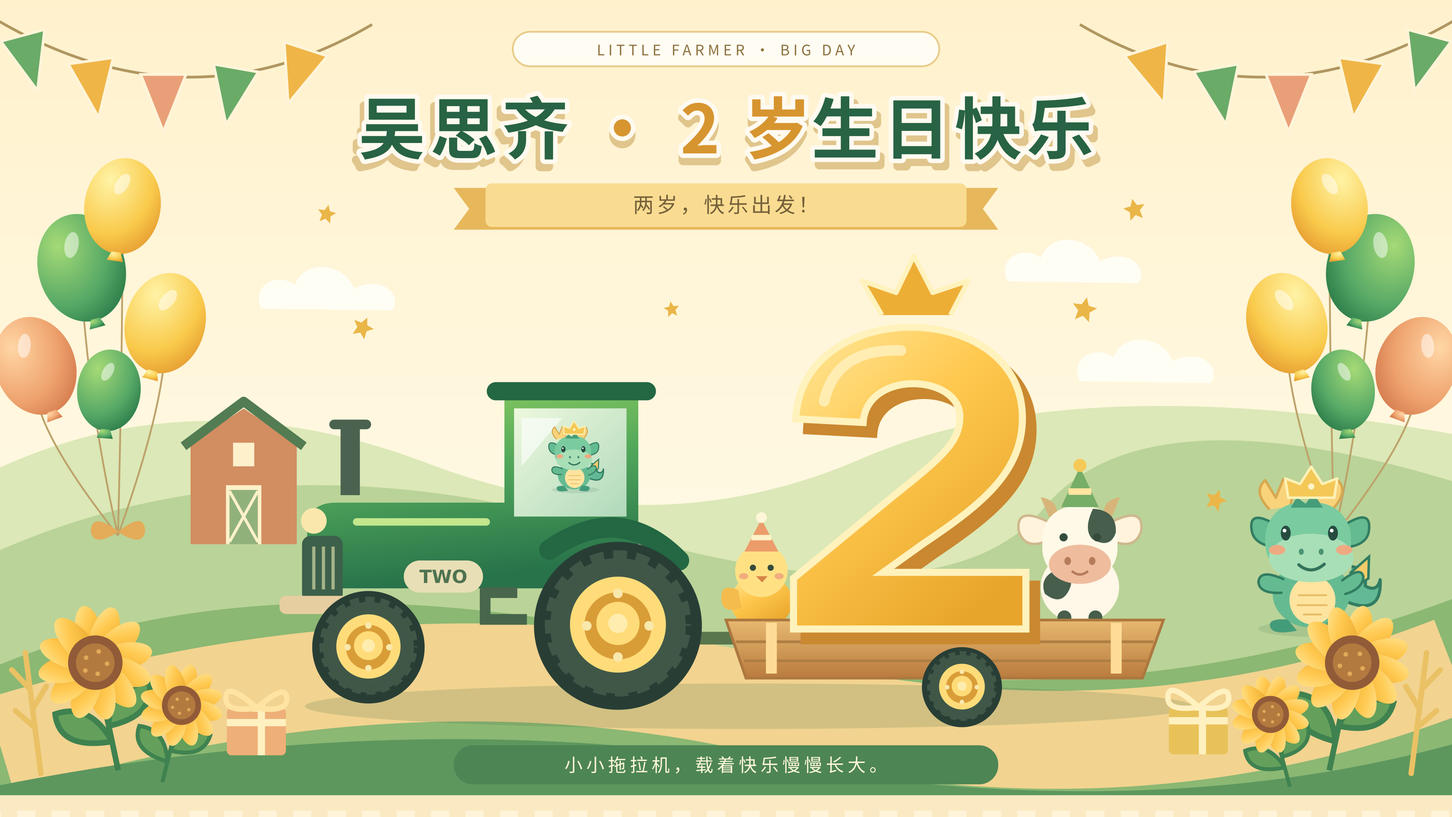
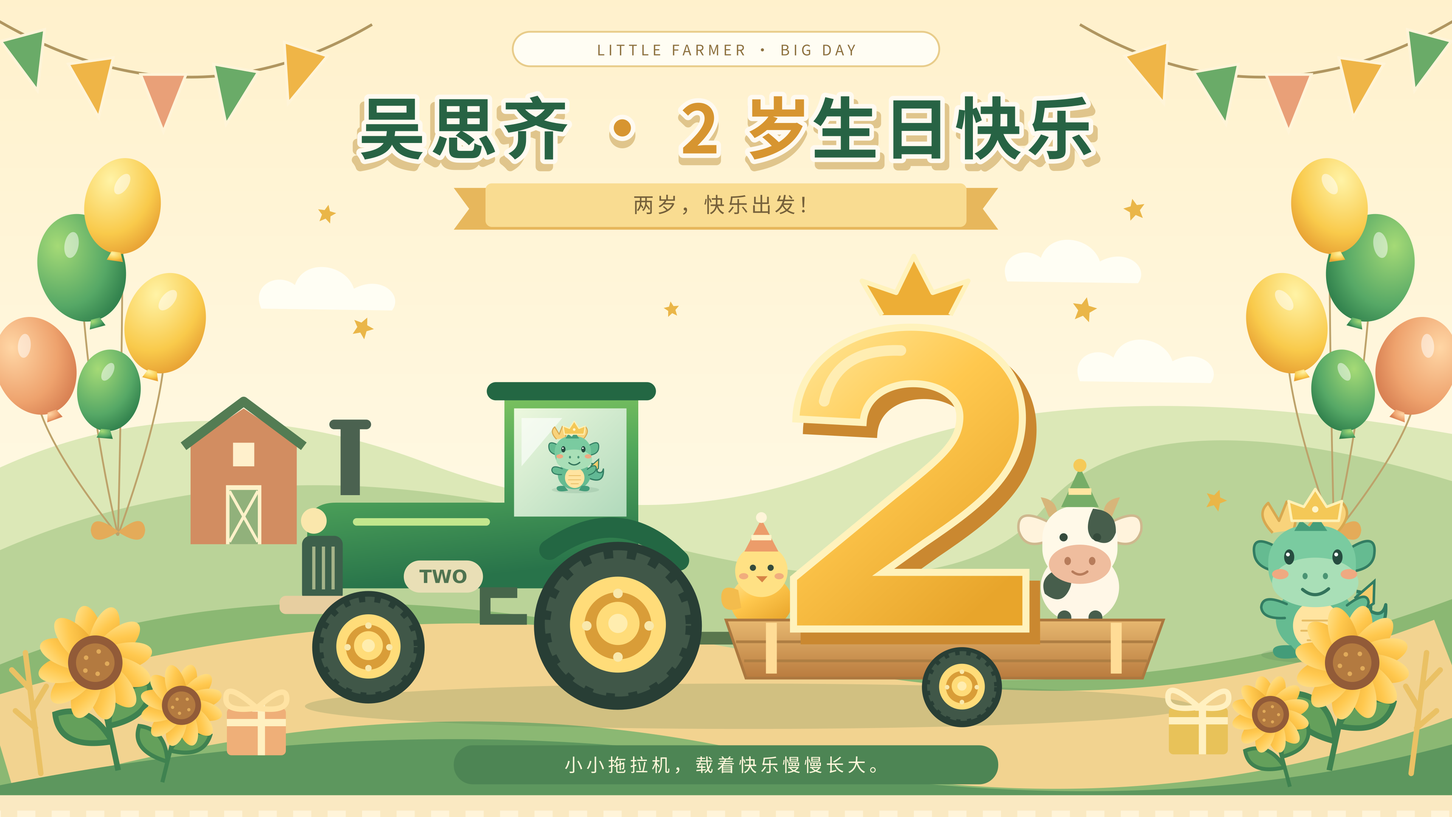
feat: 完成生日网站一期功能迭代与文档完善
1. 新增音频测试脚本check_audio.cjs并加入GitHub Pages CI检查流程
2. 优化play/audio.js音频逻辑：添加songId防止歌曲竞态，修复页面隐藏/后台时自动静音，修复未启用音频时的返回值问题
3. 修复play/play.js中的sing函数，处理audio.song()返回null的异常情况
4. 新增小龙、4K预览图等视觉素材，调整背景SVG的小龙摆放位置，为游乐园页面添加4K图下载按钮
5. 优化离线打包脚本，修改离线包内的页面提示文字
6. 清理play-preview.svg中多余的动画代码
7. 大幅更新README.md，完善项目使用与操作说明

Changed region(s): [[0.8438, 0.5583, 0.9688, 0.8065]]

diff --git a/party/index.html b/party/index.html
@@ -122,28 +122,8 @@ summary { cursor:pointer; text-align:center; padding:10px; border-radius:12px; f
 <path d="M914 450q10-45 65-43" fill="none" stroke="#fff5cb" stroke-width="9" stroke-linecap="round" opacity=".7"/></g>
 <g transform="translate(-79 -113) scale(1.18)"><g><path d="M354 590q0-25 27-25h157v-98h125v178H352Z" fill="url(#farm-green)"/><path d="M547 477h105v101H547Z" fill="url(#farm-glass)"/><path d="M554 486l38 0-38 45Z" fill="#fff" opacity=".6"/><path d="M598 478v100" stroke="url(#farm-green)" stroke-width="10"/><path d="M530 461h141" stroke="#236743" stroke-width="17" stroke-linecap="round"/><path d="M385 558v-63h18v63" fill="#4b6250"/><path d="M379 492h30" stroke="#4b6250" stroke-width="9" stroke-linecap="round"/><rect x="349" y="596" width="38" height="62" rx="8" fill="#3d604b"/><path d="M360 606v40m9-40v40m9-40v40" stroke="#a5b489" stroke-width="3"/><path d="M400 583h121" stroke="#c2e78d" stroke-width="7" stroke-linecap="round"/><rect x="328" y="652" width="65" height="17" rx="6" fill="#e7cea0"/><circle cx="360" cy="582" r="12" fill="#fae7ac"/><path d="M580 609q66-46 121 10" fill="none" stroke="#236743" stroke-width="19" stroke-linecap="round"/><rect x="444" y="619" width="74" height="30" rx="15" fill="#e9dfb6"/><text x="481" y="640" text-anchor="middle" fill="#4f7350" font-size="17" font-family="sans-serif" font-weight="700">TWO</text><path d="M550 649h-30v25h39" fill="none" stroke="#47664b" stroke-width="10"/>
 <g class="wheel rear"><use href="#farm-tire" transform="translate(644 680) scale(1.12)"/></g><g class="wheel front"><use href="#farm-tire" transform="translate(411 700) scale(.75)"/></g></g>
-<g transform="translate(1205 525) scale(.58)"><ellipse cx="154" cy="272" rx="90" ry="13" fill="#285c48" opacity=".12"/>
-<path d="M205 228q58 24 55-35-5 21-24 10 3-28-22-31" fill="#62b995" stroke="#327d62" stroke-width="5" stroke-linejoin="round"/>
-<path d="M211 183l31-27-1 35-20 13" fill="#f4cc6b" stroke="#327d62" stroke-width="4"/>
-<ellipse cx="149" cy="216" rx="62" ry="54" fill="#65bb91"/>
-<ellipse cx="151" cy="226" rx="37" ry="39" fill="#ffe4a0"/>
-<path d="M129 218h44m-46 16h47m-37 15h28" stroke="#e7bd65" stroke-width="3" stroke-linecap="round"/>
-<path d="M111 257q-33-2-28 12 4 14 43 6m51-18q35-3 30 13-4 13-40 4" fill="#439c79"/>
-<path d="M104 192q-38-17-40 5 2 19 37 17m98-20q31-24 34-5-2 19-29 27" fill="#65bb91" stroke="#327d62" stroke-width="4" stroke-linecap="round"/>
-<path d="M91 104q-43-25-38 9 3 23 38 28m113-37q42-26 38 9-2 24-37 28" fill="#65bb91" stroke="#327d62" stroke-width="4"/>
-<path d="M82 80Q54 51 75 33l17 28 12-30q21 11 11 44m69 4q26-29 7-47l-16 29-13-28q-20 10-10 43" fill="#f8d37b" stroke="#d7a850" stroke-width="4" stroke-linejoin="round"/>
-<rect x="75" y="69" width="138" height="122" rx="57" fill="#7acba0"/>
-<path d="M116 77l10-17 14 11 12-18 16 24" fill="#459d79"/>
-<ellipse cx="149" cy="158" rx="68" ry="39" fill="#a9dfb7"/>
-<ellipse cx="108" cy="118" rx="8" ry="12" fill="#264c40"/><ellipse cx="184" cy="118" rx="8" ry="12" fill="#264c40"/>
-<circle cx="106" cy="114" r="3" fill="#fff"/><circle cx="182" cy="114" r="3" fill="#fff"/>
-<ellipse cx="94" cy="145" rx="13" ry="8" fill="#efa981"/><ellipse cx="202" cy="145" rx="13" ry="8" fill="#efa981"/>
-<ellipse cx="133" cy="148" rx="4" ry="5" fill="#4b9474"/><ellipse cx="165" cy="148" rx="4" ry="5" fill="#4b9474"/>
-<path d="M129 169q20 17 41-1" fill="none" stroke="#33735b" stroke-width="5" stroke-linecap="round"/>
-<path d="M112 61l-5-31 24 9 18-28 18 28 24-9-5 31Z" fill="#f4c857" stroke="#fff1b6" stroke-width="4" stroke-linejoin="round"/>
-<circle cx="149" cy="43" r="5" fill="#fff5c9"/></g>
 </g>
-<g transform="translate(633 510) scale(.29)"><use href="#farm-dragon"/></g></g><g transform="translate(105 730) rotate(-12) scale(1.25)"><use href="#farm-sunflower"/></g><g transform="translate(200 777) rotate(14) scale(0.9)"><use href="#farm-sunflower"/></g><g transform="translate(1490 730) rotate(12) scale(1.25)"><use href="#farm-sunflower"/></g><g transform="translate(1400 787) rotate(-15) scale(0.85)"><use href="#farm-sunflower"/></g><g stroke="#eac164" stroke-width="6" fill="none" stroke-linecap="round"><path d="M45 852l-17-133m11 83-22-19m19-2 15-25m-19 2-19-20M1555 852l17-133m-11 83 22-19m-19-2-15-25m19 2 19-20"/></g><g transform="translate(250 780)"><rect width="65" height="52" rx="5" fill="#efaf78"/><path d="M28 0h10v52M0 16h65" fill="none" stroke="#fff0c0" stroke-width="8"/><path d="M33 0q-35-31-34-10 0 15 34 10 33-29 33-10 0 15-33 10" fill="none" stroke="#ffe3a3" stroke-width="6"/></g><g transform="translate(1288 779)"><rect width="65" height="52" rx="5" fill="#e8c259"/><path d="M29 0h8v52M0 15h65" fill="none" stroke="#fff0c0" stroke-width="8"/><path d="M33 0q-35-31-34-10 0 15 34 10 33-29 33-10 0 15-33 10" fill="none" stroke="#fff0c0" stroke-width="6"/></g><rect x="500" y="821" width="600" height="43" rx="21" fill="#4d8554"/><text x="800" y="850" text-anchor="middle" font-size="20" letter-spacing="4" fill="#fff7db" font-family="PingFang SC, Microsoft YaHei, Noto Sans CJK SC, sans-serif">小小拖拉机，载着快乐慢慢长大。</text><g font-family="PingFang SC, Microsoft YaHei, Noto Sans CJK SC, sans-serif" text-anchor="middle">
+<g transform="translate(633 510) scale(.29)"><use href="#farm-dragon"/></g></g><g transform="translate(1450 650) scale(.7)"><use href="#farm-dragon"/></g><g transform="translate(105 730) rotate(-12) scale(1.25)"><use href="#farm-sunflower"/></g><g transform="translate(200 777) rotate(14) scale(0.9)"><use href="#farm-sunflower"/></g><g transform="translate(1490 730) rotate(12) scale(1.25)"><use href="#farm-sunflower"/></g><g transform="translate(1400 787) rotate(-15) scale(0.85)"><use href="#farm-sunflower"/></g><g stroke="#eac164" stroke-width="6" fill="none" stroke-linecap="round"><path d="M45 852l-17-133m11 83-22-19m19-2 15-25m-19 2-19-20M1555 852l17-133m-11 83 22-19m-19-2-15-25m19 2 19-20"/></g><g transform="translate(250 780)"><rect width="65" height="52" rx="5" fill="#efaf78"/><path d="M28 0h10v52M0 16h65" fill="none" stroke="#fff0c0" stroke-width="8"/><path d="M33 0q-35-31-34-10 0 15 34 10 33-29 33-10 0 15-33 10" fill="none" stroke="#ffe3a3" stroke-width="6"/></g><g transform="translate(1288 779)"><rect width="65" height="52" rx="5" fill="#e8c259"/><path d="M29 0h8v52M0 15h65" fill="none" stroke="#fff0c0" stroke-width="8"/><path d="M33 0q-35-31-34-10 0 15 34 10 33-29 33-10 0 15-33 10" fill="none" stroke="#fff0c0" stroke-width="6"/></g><rect x="500" y="821" width="600" height="43" rx="21" fill="#4d8554"/><text x="800" y="850" text-anchor="middle" font-size="20" letter-spacing="4" fill="#fff7db" font-family="PingFang SC, Microsoft YaHei, Noto Sans CJK SC, sans-serif">小小拖拉机，载着快乐慢慢长大。</text><g font-family="PingFang SC, Microsoft YaHei, Noto Sans CJK SC, sans-serif" text-anchor="middle">
 <rect x="565" y="35" width="470" height="38" rx="19" fill="#fffdf3" stroke="#e8cc8a" stroke-width="2"/>
 <text x="800" y="61" font-size="16" letter-spacing="4" fill="#8d713f">LITTLE FARMER · BIG DAY</text>
 <text x="800" y="177" font-size="74" font-weight="bold" letter-spacing="5" stroke="#e0c58c" stroke-width="10" stroke-linejoin="round" paint-order="stroke" fill="#e0c58c">吴思齐 · 2 岁生日快乐</text>

diff --git a/play/play.js b/play/play.js
@@ -61,7 +61,7 @@ $('music-toggle').onclick=async()=>{if(!musicURL)return;if(wantsMusic){wantsMusi
 window.addEventListener('dragover',e=>e.preventDefault());window.addEventListener('drop',e=>{e.preventDefault();if(e.dataTransfer?.files.length)importPhotos(e.dataTransfer.files);});
 // 蛋糕由大人控制；唱歌可停止，随时可吹灭，不强制等待。
 function updateCake(){ $('birthday-cake').classList.toggle('out',blown);$('cake-title').textContent=blown?'耶！思齐两岁啦！':'思齐，生日快乐！';$('lyric').textContent=blown?'愿所有美好，陪你慢慢长大':'许一个小小的愿望吧';$('blow').hidden=blown;$('relight').hidden=!blown;}
-async function sing(){if(singing){stopSong();return;}if(frozen()){tell('先退出合影或继续动画，再一起唱歌吧。');return;}stopMic();const run=++songRun;singing=true;$('sing').textContent='停止生日歌';if(!await enableSound(true)||run!==songRun||mode!=='cake'||frozen())return;try{const song=await audio.song();if(run!==songRun||mode!=='cake')return;const lines=['祝你生日快乐','祝你生日快乐','祝思齐生日快乐','祝你生日快乐'];song.lines.forEach((t,i)=>songTimers.push(setTimeout(()=>{if(run===songRun)$('lyric').textContent=lines[i];},t*1000)));songTimers.push(setTimeout(()=>{if(run===songRun){stopSong();$('lyric').textContent=blown?'思齐，生日快乐！':'许个愿，吹蜡烛吧！';}},song.total*1000));}catch{stopSong();tell('暂时无法播放生日歌，可以大家一起唱。');}}
+async function sing(){if(singing){stopSong();return;}if(frozen()){tell('先退出合影或继续动画，再一起唱歌吧。');return;}stopMic();const run=++songRun;singing=true;$('sing').textContent='停止生日歌';if(!await enableSound(true)||run!==songRun||mode!=='cake'||frozen())return;try{const song=await audio.song();if(run!==songRun||mode!=='cake')return;if(!song){stopSong();return;}const lines=['祝你生日快乐','祝你生日快乐','祝思齐生日快乐','祝你生日快乐'];song.lines.forEach((t,i)=>songTimers.push(setTimeout(()=>{if(run===songRun)$('lyric').textContent=lines[i];},t*1000)));songTimers.push(setTimeout(()=>{if(run===songRun){stopSong();$('lyric').textContent=blown?'思齐，生日快乐！':'许个愿，吹蜡烛吧！';}},song.total*1000));}catch{stopSong();tell('暂时无法播放生日歌，可以大家一起唱。');}}
 function blow(){if(mode!=='cake'||blown)return;stopSong();stopMic();blown=true;updateCake();celebrate();audio.effect('dragon').catch(()=>{});showControls(false);}
 $('sing').onclick=sing;$('blow').onclick=blow;$('relight').onclick=()=>{stopSong();stopMic();blown=false;clearEffects();updateCake();};
 // 麦克风仅通过明确按钮启用；校准环境音，连续响度超阈值触发，键盘/按钮始终可用。

diff --git a/play/index.html b/play/index.html
@@ -37,7 +37,7 @@
 <circle cx="149" cy="43" r="5" fill="#fff5c9"/></svg>
 <text x="351" y="679" font-family="sans-serif" font-size="190" font-weight="900" fill="#ffd668" stroke="#fff3c3" stroke-width="8" paint-order="stroke">2</text>
 <svg x="775" y="424" width="535" height="389" viewBox="0 0 220 160">
-  <circle class="puff" cx="124" cy="12" r="8"/><circle class="puff p2" cx="124" cy="12" r="8"/><circle class="puff p3" cx="124" cy="12" r="8"/>
+  
   <rect x="120" y="16" width="9" height="46" rx="3" fill="#555"/>
   <rect x="95" y="58" width="112" height="48" rx="12" fill="#e63b2e"/>
   <rect x="104" y="64" width="78" height="7" rx="3.5" fill="#ff8a80" opacity=".8"/>
@@ -107,7 +107,7 @@
 <div class="row" id="cake-tools" hidden><button id="sing">♫ 一起唱生日歌</button><button id="blow">吹灭蜡烛</button><button id="relight" hidden>重新点亮</button></div>
 <div class="row"><button id="sound" aria-pressed="false">声音：关</button><button id="photo" aria-pressed="false">合影模式</button><button id="hide">隐藏按钮</button></div>
 <details id="settings"><summary>更多设置与版本</summary>
-<div class="row"><button id="pause" aria-pressed="false">暂停动画</button><button id="fullscreen">全屏展示</button><button id="awake" aria-pressed="false">保持屏幕常亮</button><button id="choose-version">选择其他版本</button></div>
+<div class="row"><button id="pause" aria-pressed="false">暂停动画</button><button id="fullscreen">全屏展示</button><button id="awake" aria-pressed="false">保持屏幕常亮</button><a href="../assets/play-preview-4k.png" download="思齐小龙游乐园-4K.png">农场备用图</a><button id="choose-version">选择其他版本</button></div>
 <div class="row album-settings" id="album-settings" hidden><label>每张停留 <select id="duration"><option value="5">5 秒</option><option value="8" selected>8 秒</option><option value="12">12 秒</option></select></label><button id="pick-music">选择背景音乐</button><button id="music-toggle" disabled>播放音乐</button><button id="clear-photos" disabled>清空照片</button><button id="pick-folder">选择文件夹</button><label><input id="captions" type="checkbox" checked>显示文件名字幕</label></div>
 <div class="row" id="mic-tools" hidden><button id="mic-toggle" aria-pressed="false">开启吹气感应</button><span id="mic-status" role="status"></span></div>
 <p class="help">隐藏后轻点空白处恢复操作；Esc 恢复，1–4 切换场景。<br>照片只在本机展示，刷新或切换版本后需重选。声音默认关闭。</p>

diff --git a/play/audio.js b/play/audio.js
@@ -1,7 +1,7 @@
 /* 原生合成音：不加载网络音频。所有声音都从用户操作开始。 */
 'use strict';
 window.PartyAudio = (() => {
- let context, bus, songBus, enabled=false;
+ let context, bus, songBus, enabled=false, songId=0;
  const notes={C4:261.63,G4:392,A4:440,B4:493.88,C5:523.25,D5:587.33,E5:659.25,F5:698.46,G5:783.99,A5:880,C6:1046.5};
  const melody=[['G4',.75],['G4',.25],['A4',1],['G4',1],['C5',1],['B4',2],['G4',.75],['G4',.25],['A4',1],['G4',1],['D5',1],['C5',2],['G4',.75],['G4',.25],['G5',1],['E5',1],['C5',1],['B4',1],['A4',2],['F5',.75],['F5',.25],['E5',1],['C5',1],['D5',1],['C5',3]];
  async function ready(){
@@ -17,9 +17,9 @@ window.PartyAudio = (() => {
   oscillator.onended=()=>{oscillator.disconnect();gain.disconnect();};
  }
  function bell(hz,t,d,v,target){tone(hz,t,d,v,'sine',target);tone(hz*2,t,d*.6,v*.18,'sine',target);}
- function stopSong(){if(songBus){songBus.gain.setValueAtTime(0,context.currentTime);songBus.disconnect();songBus=null;}}
+ function stopSong(){songId++;if(songBus){songBus.gain.setValueAtTime(0,context.currentTime);songBus.disconnect();songBus=null;}}
  async function setEnabled(value){enabled=value;if(value){await ready();if(enabled)bus.gain.setValueAtTime(.28,context.currentTime);}else{stopSong();if(bus)bus.gain.setValueAtTime(0,context.currentTime);}}
- async function song(){await ready();stopSong();songBus=context.createGain();songBus.connect(bus);const start=context.currentTime+.12;let time=start;const lines=[];
+ async function song(){stopSong();const run=songId;await ready();if(run!==songId||!enabled||document.hidden)return null;songBus=context.createGain();songBus.connect(bus);const start=context.currentTime+.12;let time=start;const lines=[];
   melody.forEach(([name,duration],i)=>{if([0,6,12,19].includes(i))lines.push(time-start+.12);bell(notes[name],time,Math.max(.65,duration*.8),.27,songBus);time+=duration*.58;});return {lines,total:time-start+.8};
  }
  async function effect(kind){if(!enabled)return;await ready();if(!enabled||document.hidden)return;const t=context.currentTime+.02;

diff --git a/scripts/package_site.py b/scripts/package_site.py
@@ -19,6 +19,9 @@ if __name__=='__main__':
     archive=ROOT/'little-tractor-party-offline.zip'
     with ZipFile(archive,'w',ZIP_DEFLATED) as out:
         for name in FILES+['README.md']:
-            out.write(ROOT/name,name)
+            if name=='index.html':
+                offline=(ROOT/name).read_text().replace('<a href="little-tractor-party-offline.zip" download>↓ 完整离线包</a>', '<span class="note">当前为完整离线副本</span>')
+                out.writestr(name,offline)
+            else:out.write(ROOT/name,name)
     shutil.copy2(archive,dist/archive.name)
     print(f'已生成 dist/（{len(FILES)} 个站点文件）与 {archive.name}（{archive.stat().st_size/1024/1024:.1f} MB）')

diff --git a/README.md b/README.md
@@ -1,155 +1,197 @@
-# Little Tractor Party 🚜
+# 思齐的两岁快乐农场 🚜🐲
 
-吴思齐两周岁生日的拖拉机主题大屏网页。
+给 **吴思齐** 的两周岁生日网站。思齐生肖属龙，因此用一只戴金色小皇冠、笑眯眯的小龙作为三个版本共同的伙伴，陪他坐拖拉机、认识农场动物、看成长照片和庆祝生日。
 
-## 项目背景
+主要用途：**手机打开网站 → 选择喜欢的版本 → 横屏 → 用系统屏幕镜像投到大厅电视**，作为迎宾、生日仪式、互动和合影背景。
 
-生日当天将在大厅布置拖拉机主题场景，希望制作一个 HTML 网页，通过手机打开并使用屏幕镜像投到电视上，作为现场动态背景、生日仪式和合影背景。
+网站采用原生 HTML、CSS、JavaScript 和 SVG；无需安装前端依赖，没有后端、广告、统计脚本或网络字体。已托管于 **GitHub Pages**。
 
-本文件用于新对话接续需求。已实现不含私人照片的本地生日大屏 `index.html`，包含农场、蛋糕仪式、合影模式及两张 4K 备用图。尚未创建远程仓库或部署。
+**在线入口：[思齐的两岁快乐农场](https://zemu2718.github.io/little-tractor-party/)**
 
-## 已确认的需求
+## 当前交付状态
 
-- 宝宝姓名：吴思齐。
-- 年龄：两周岁。
-- 使用地点：布置生日场景的大厅。
-- 主题：拖拉机。
-- 成品形式：HTML 网页，而非只做视频或 PPT。
-- 主要使用方式：手机浏览器打开网页，再通过手机的屏幕镜像功能显示到电视。
-- 用户同意先做不含私人照片的主题网页，测试投屏效果，再考虑增加照片等功能。
-- 项目名称：`little-tractor-party`。
-- 本地路径：`/Volumes/wwx/dev/WebProjects/little-tractor-party`。
+- 已建立版本选择首页，提供实际画面预览和三个独立入口。
+- 三个版本都已加入小龙，并提供手机按钮、全屏、常亮、动画暂停、合影和返回版本首页。
+- 派对版和简洁版提供农场、蛋糕及 4K 静态备用图。
+- 互动版提供农场、成长相册、生日歌、吹蜡烛及动物互动。
+- 已添加 GitHub Pages 工作流、发布文件检查、交互回归和离线打包脚本。
+- 已通过两版大屏交互回归、游乐园状态回归、音频生命周期回归、发布资源与相对链接检查；已查看导出的静态画面。
+- **已上线（用户确认）**：[https://zemu2718.github.io/little-tractor-party/](https://zemu2718.github.io/little-tractor-party/)。本次网络读取工具未能访问该站点，线上资源及交互尚未独立验证；工具访问失败不代表网站故障。
+- **尚未完成真实手机、浏览器和电视投屏验证**：当前环境的 Firefox 启动失败，且不允许启动本地 HTTP 服务器；源码检查、模拟 DOM 回归和静态图检查不等同于现场测试。
 
-## 主画面范围（已实现初稿）
+## 选择哪个版本
 
-优先把一个漂亮、稳定的拖拉机生日主画面做好，不急于实现复杂功能。
+从 [版本选择首页](index.html) 进入。首页会在浏览器允许本地存储时标记上次选择，但不会自动跳转。
 
-- 面向电视的 16:9 横屏构图，同时适配手机横屏访问。
-- 明确显示「吴思齐 · 2 岁生日快乐」。
-- 绘本风农场：拖拉机、田野、谷仓、风车、气球等。
-- 核心创意：拖拉机拖着一个大大的数字「2」。
-- 柔和循环动画，例如车轮转动、云朵飘动、风车旋转。
-- 姓名和祝福保持清晰稳定，适合大厅远距离观看与现场拍照。
-- 默认静音，避免持续发动机声或自动音乐影响现场聊天。
-- 操作按钮可隐藏，展示时保持画面干净。
-- 避免频繁闪烁和过快切换。
+| 版本 | 入口 | 风格与内容 | 适合何时使用 |
+| --- | --- | --- | --- |
+| **欢乐派对** | [party/index.html](party/index.html) | 绿色拖拉机、立体金色「2」、气球、小龙和农场伙伴；手动蛋糕仪式 | 推荐用于迎宾、切蛋糕和热闹合影 |
+| **清新简洁** | [classic/index.html](classic/index.html) | 奶油色、柔和田野、风车、小龙点缀；轻柔循环动画 | 安静背景、温馨全家福 |
+| **小龙游乐园** | [play/index.html](play/index.html) | 蓝天、红色拖拉机、小龙；成长相册、生日歌、点点玩 | 成长回顾、亲子互动和唱歌仪式 |
 
-### 尚未确认的视觉建议
+三个版本均保持 **16:9 完整构图**。不同屏幕比例可能留边，不会为了铺满而裁掉标题或拉伸插画。标题和主体保持清晰；运动缓慢，不使用强制倒计时、输赢机制或持续闪烁。
 
-- 主题标题：「思齐的快乐农场」。
-- 配色：绿色拖拉机、奶油色背景、麦穗黄点缀。
-- 辅助文案：「小小拖拉机，载着快乐慢慢长大。」或「两岁，快乐出发！」。
-- 最终风格应尽量匹配大厅实物布置；用户尚未提供布置参考图。
+大屏页面的「更多设置」提供版本选择入口。切换版本会打开另一个页面，**照片、音乐、蜡烛、全屏和常亮状态不跨版本继承**。游乐园载入了照片或音乐时，会先提示再返回首页。
 
-## 后续可选功能（不是第一版必做）
+## 生日当天怎么用
 
-1. 成长相册或 1～2 分钟成长回顾。
-2. 手动切换的切蛋糕场景，以及吹蜡烛后触发的彩纸动画（已实现）。
-3. 固定停留的合影背景（已实现）。
-4. 在手机上临时选择照片，仅在浏览器本机展示，不上传。
-5. 导出或另做循环视频，作为现场备用。
+### 活动开始前
 
-仪式场景应由大人手动控制，不使用强制倒计时或必须配合固定时间的自动流程。
+1. 打开首页，把「农场备用图」「蛋糕备用图」存到手机相册。
+2. 需要电脑离线运行时，下载完整离线包，**先解压，再打开其中的 `index.html`**。不要在压缩包预览器里运行页面。
+3. 手机连接现场网络，横屏打开选好的版本，再用系统屏幕镜像连接电视。
+4. 检查名字是否清楚、画面是否完整、浏览器工具栏是否遮挡，并试一次切换蛋糕和合影。
+5. 按需开启「保持屏幕常亮」「全屏展示」。不支持常亮时，在手机系统中暂时延长自动锁屏时间。
 
-## 部署与隐私
+### 迎宾 → 蛋糕 → 合影
 
-- 已讨论 GitHub Pages，作为候选静态托管方案，尚未实际部署。
-- 预计地址形式：`https://<GitHub 用户名>.github.io/little-tractor-party/`。
-- HTML 本身不会自动投屏；电视显示依赖手机与电视的屏幕镜像能力。
-- 普通 GitHub Pages 网站是公开访问的，不能把私有源码仓库等同于私有网站。
-- 不要未经确认上传宝宝照片、家庭视频等私人素材。
-- 页面拟显示宝宝姓名；公开发布前应确认用户接受公开展示姓名，或改用昵称。
-- 国内现场访问 GitHub Pages 的速度和可达性需实测，不保证网络稳定。
-- 项目站点部署应注意资源子路径，避免部署后图片、脚本或样式 404。
-- 远程仓库创建、代码推送和公开部署尚未执行，实际操作前确认目标账号、可见性及发布内容。
+| 环节 | 操作 |
+| --- | --- |
+| 迎宾 | 进入欢乐派对，点击「隐藏按钮」，让小龙和拖拉机陪大家等待 |
+| 切蛋糕 | 轻点空白处恢复按钮，选择「生日蛋糕」；唱歌与许愿由家人自行安排 |
+| 吹蜡烛 | 大人点击「吹灭蜡烛」；祝福改变、彩纸落下、操作栏隐藏 |
+| 重来一次 | 恢复操作栏，点击「重新点亮」 |
+| 全家合影 | 点击「合影模式」，动画暂停、彩纸清除、操作栏隐藏 |
+| 继续展示 | 轻点空白处恢复按钮，点击「退出合影」恢复进入前的动画状态 |
 
-## 待确认的信息
+派对版和简洁版默认无声音，也不会请求麦克风。两版另有「撒花庆祝」按钮，可以在农场场景手动庆祝。暂停、合影或系统开启“减少动态效果”时，不播放彩纸。
 
-- 手机是 iPhone 还是 Android。
-- 电视型号、支持的投屏方式，以及是否方便提前测试。
-- 大厅布置效果图、拖拉机颜色和整体配色。
-- 是否需要音乐。
-- GitHub 账号与最终托管方式。
+**找回按钮：**轻点画面空白处，或在电脑上按 `Esc`。按 `H` 可显示／隐藏操作栏。游乐园里的动物按钮会继续响应互动，恢复菜单时请点动物以外的空白区域。
 
-这些信息不必全部确认后才开始；可以先做不含照片的静态/动态主画面原型。
+## 小龙游乐园操作说明
 
-## 开发原则
+### 成长相册
 
-- 使用中文沟通，代码注释尽量中文。
-- 保持简单，静态 HTML/CSS/JavaScript 能满足时不引入后端或复杂框架。
-- 先做好视觉效果和现场稳定性，不扩展无关功能。
-- 手机浏览器的横屏、全屏和音频能力存在平台限制，应按实测结果处理，不承诺所有设备均无黑边或支持自动全屏。
-- 若调用 AI 生成插画，遵循用户全局 imagegen 配置；涉及费用或不明确的生成参数，先确认，不擅自提交付费任务。
+1. 进入「成长相册」，点击「选择照片」，可多选；电脑也可把照片拖入页面。
+2. 照片按文件名自然排序；需要明确顺序时，使用 `01-刚出生.jpg`、`02-第一次坐拖拉机.jpg` 等名称。
+3. 默认每张停留 **8 秒**，循环播放。可在设置中改为 5 或 12 秒。
+4. 「上一张」「下一张」「暂停相册」都有手机触控按钮。电脑也可用方向键翻页、空格播放／暂停。
+5. 字幕来自文件名，常见相机自动命名会隐藏；设置中也可关闭全部文件名字幕。
+6. 可选择本地背景音乐，再点「播放音乐」。音乐循环播放，只在相册场景播放；离开相册、进入合影或切后台时暂停。
 
-## 新对话接续提示
+照片和音乐通过浏览器本地文件地址使用，**不上传、不写入仓库，也不保存到服务器**。刷新、关闭页面或切换版本后，需要重新选择。重新选择照片会替换已有相册；「清空照片」释放当前照片资源。
 
-可以对新对话说：
+为控制手机内存，相册最多载入 **120 张**，每张不超过 **25 MB**，选入总量不超过 **250 MB**，单图不超过 **5000 万像素**。文件会逐张解码检查；不支持、损坏或超限的文件会跳过并提示。如果整批都失败，保留已有相册。
 
-> 请先阅读 README.md，这是吴思齐两周岁拖拉机主题生日大屏项目。先做不含私人照片的 HTML 主画面，主要通过手机打开并镜像投屏到电视。请根据已确认需求推进，未确认的建议不要当成既定要求。
+推荐提前准备 JPG 或 PNG。HEIC／HEIF 是否可显示取决于设备与浏览器，不能保证；无法显示时请转换为 JPG。文件夹选择也取决于浏览器支持，普通多选照片始终作为主要入口。
 
-## 本地主画面使用说明
+### 生日歌和蜡烛
 
-第一版入口是 `index.html`，使用原生 HTML/CSS/JavaScript 和内嵌 SVG 插画，无需安装依赖、构建或联网加载素材，不含照片、音乐、分析统计或上传功能。当前默认是更明亮的绿色、金黄与奶油色派对版；原有低饱和绘本风保留为简洁版。两者均尚未按大厅参考图校色。
+- 默认静音。「声音：开」启用互动音效；「一起唱生日歌」会主动开启声音并播放合成伴奏、同步显示歌词，家人可一起唱。
+- 可以停止歌曲，也可以随时点击「吹灭蜡烛」，不必等待歌曲结束。
+- 切场景、关闭声音、进入合影或切后台会停止生日歌；回来后需要重新开始唱。
+- 吹灭后可重新点亮；同一页面内切换场景保留蜡烛状态。
+- 「更多设置 → 开启吹气感应」才会请求麦克风。授权后先校准约 1.5 秒，再检测持续声音强度。
+- 感应检测的是响度，现场讲话、音乐或其他噪声也可能触发；**手动按钮是现场可靠的操作入口**。不支持或拒绝权限时，照样可以手动吹灭。
+- 离开蛋糕、吹灭蜡烛、进入合影或切后台，会关闭麦克风并释放资源，不自动重新申请。
 
-- 在电脑浏览器中打开 `index.html` 即可预览。
-- 如需手机访问，在本目录运行 `python3 -m http.server 8080 --bind 0.0.0.0`，手机连接同一局域网后，访问 `http://电脑的局域网IP:8080`。电脑防火墙需允许连接；此方式需电脑保持运行。结束后按 Ctrl+C 停止服务。
-- 手机横屏后，使用系统的屏幕镜像功能投到电视；网页本身不发起投屏。
-- 主画面保持 16:9 完整显示，其他屏幕比例会留边，不裁掉姓名或插画。
-- 「暂停动画」可用于合影；「隐藏按钮」会立即清理操作栏和提示，轻点任意画面恢复按钮。电脑也可按 H 显示或隐藏按钮，Esc 恢复按钮。
-- 「全屏展示」在支持 Fullscreen API 的浏览器中生效；不支持时会给出提示，请横屏并收起浏览器工具栏。
-- 尊重系统的“减少动态效果”设置；默认静音，没有自动音乐。
+### 点点玩
 
-页面可离线打开，但手机浏览器能否直接打开本地 HTML 文件取决于系统；首次手机测试建议使用局域网地址。现场仍需实测镜像清晰度、浏览器工具栏、电视边缘裁切及手机自动锁屏。尚未进行真实手机和电视测试。
+四个大角色按钮：**小龙、小牛、小鸡、拖拉机**。点一下会有招呼文字和轻轻跳动；开启声音后有对应短音效。小龙用柔和音符回应，小牛、小鸡和拖拉机使用合成音效。
 
-### 合影模式与静态备用图
+没有分数、限时、失败或连续奖励压力。大人可以陪孩子指认角色，按孩子自己的节奏玩。系统“减少动态效果”或合影状态下会减少／停止动态反馈。
 
-- 点击「合影模式」：暂停所有动画、立即隐藏按钮和提示，保留干净背景。
-- 轻点画面或按 Esc 恢复按钮，画面仍保持静止；点击「退出合影」恢复进入前的动画状态。点击「继续动画」则直接退出合影并播放动画。
-- 展开「更多设置与备用图」，点击「农场备用图」下载 `assets/birthday-background-4k.png`，尺寸为 **3840×2160（16:9）**。部分手机浏览器可能直接打开图片，可长按保存。建议活动前保存到手机相册，现场断网也可展示。
-- 备用图含姓名、祝福及完整插画，没有按钮。PNG 固定了字体显示；另附可缩放的 `assets/birthday-background.svg`。
-- 主画面文字与插画共用 SVG 坐标，横屏尺寸变化不会改变它们的相对位置。备用图使用动画初始姿态，并非当前暂停帧的截图。
-- 分享或拷贝完整网页时，请一起保留 `assets` 目录；单独拷贝 `index.html` 仍可显示主画面，但备用图下载需要该目录。
+## 全屏、常亮与投屏边界
 
-修改插画或文案后，可运行 `python3 scripts/export_background.py` 重新生成备用图。导出脚本需要系统提供 librsvg、Cairo 及中文字体；日常打开网页和使用现成备用图不需要这些开发工具。
+- 网页不直接连接电视；电视画面来自手机系统的屏幕镜像。
+- 全屏与常亮仅在主动点击后申请，失败时显示回退提示。
+- 常亮通常需要 HTTPS 等安全环境。GitHub Pages 提供 HTTPS；局域网 HTTP 预览不保证支持常亮或麦克风。
+- 切到其他应用时，浏览器可能释放常亮。回到页面后会尝试恢复先前开启的常亮，以按钮状态为准。
+- 部分手机浏览器不支持网页全屏，横屏并收起浏览器工具栏仍可展示。
+- 操作栏在窄屏换行，设置展开后可滚动；合影和隐藏按钮会清除常驻操作提示。
+- 现场网络、手机发热、系统锁屏、电视裁切与镜像清晰度需要用实际设备验证。
 
-## 生日当天的操作顺序
+## 本地预览
 
-1. 提前把两张 PNG 备用图保存到手机相册；也可使用 `little-tractor-party-offline.zip`，解压后打开其中的 `index.html`。不要直接在压缩包预览器里运行网页。
-2. 打开网页，手机横屏，使用系统的屏幕镜像连接电视。默认展示「快乐农场」。
-3. 展开「更多设置与备用图」，按需开启「保持屏幕常亮」或「全屏展示」。这两项都取决于浏览器支持；不支持时有明确提示，网页仍能使用。
-4. 点击「隐藏按钮」，用农场动画作为迎宾背景；轻点画面恢复操作。隐藏后没有常驻操作提示。
-5. 切蛋糕时，点击「生日蛋糕」，然后隐藏按钮。大家唱歌、许愿的节奏自行安排。
-6. 准备吹蜡烛时，轻点画面恢复按钮，再点击「吹灭蜡烛」。蜡烛熄灭、祝福文案改变，按钮自动隐藏，轻柔彩纸只播放一轮。没有自动音乐、倒计时、麦克风或摄像头权限请求。
-7. 需要重来时，轻点画面后点击「重新点亮」。切换农场和蛋糕会保留本次蜡烛状态；刷新网页则恢复默认状态。
-8. 合照时，任一场景都可点击「合影模式」。此时会清除尚在飘落的彩纸，避免定格的彩纸挡住人物或文字。暂停动画或系统启用“减少动态效果”时，吹灭蜡烛仍生效，但不会播放彩纸。
+电脑可直接打开 `index.html`，网站运行时没有外部网络依赖。手机能否直接运行本地 HTML 取决于系统，因此首次手机测试建议使用局域网服务器。
 
-### 常亮与全屏的实际边界
+在项目根目录运行：
 
-- 常亮默认关闭。仅在主动点击后请求屏幕唤醒锁，不播放隐藏视频或声音来阻止锁屏。
-- 切到其他应用后浏览器可能释放常亮；重新回到页面时尝试恢复，按钮展示实际状态。请求失败时有提示。
-- 常亮通常需要安全网页环境；局域网 HTTP 地址可能无法使用。此时请在手机系统设置里调整自动锁屏时间，活动结束后恢复。
-- 操作栏在窄屏下换行，展开设置后可滚动。画面始终保持 16:9，不强制旋转设备，也不拉伸插画。
+```bash
+python3 -m http.server 8080 --bind 0.0.0.0
+```
 
-### 交付文件与验证
+电脑访问 `http://localhost:8080`；手机与电脑连接同一局域网，访问 `http://电脑的局域网IP:8080`。电脑需要保持运行，防火墙需允许连接；结束后按 `Ctrl+C`。
 
-- `index.html`：全部场景、样式、插画和交互都内嵌，无外部网络依赖。
-- `assets/birthday-background-4k.png`、`assets/birthday-cake-4k.png`：农场与蛋糕的 3840×2160 备用图，蛋糕图为蜡烛点亮状态。
-- 两个对应的 `.svg`：可缩放的静态插画源文件。
-- `little-tractor-party-offline.zip`：网页、备用图和本说明的便携副本。修改页面后需重新打包。
-- `node scripts/check_page.cjs`：使用模拟 DOM 检查场景与蜡烛状态、合影恢复、减少动态效果、彩纸清理、键盘控制、全屏与常亮成功/失败路径。无需第三方依赖。
+## 发布到 GitHub Pages
 
-已检查两张静态导出图、SVG 引用完整性和交互回归。当前环境没有可用的浏览器自动化工具；模拟 DOM 检查不等同于真实浏览器渲染验证。真实手机、电视投屏、浏览器全屏和常亮表现仍需现场设备验证。
+项目提供工作流 [.github/workflows/pages.yml](.github/workflows/pages.yml)，不需要配置额外的发布密钥。
 
-## 派对版视觉升级
+1. 站点已经上线；后续更新时，将项目源文件提交到实际部署仓库的 `main` 分支。若使用其他分支，先修改工作流的分支名称。
+2. 在仓库 **Settings → Pages → Build and deployment → Source** 中选择 **GitHub Actions**。
+3. 推送到 `main`，或在 Actions 中手动运行 **Publish birthday farm**。
+4. 工作流先运行检查，再构建 `dist/` 和离线包，最后发布 Pages。
+5. 成功后的网址由部署结果提供；常见项目站点形式为 `https://账号名.github.io/仓库名/`。
 
-`index.html` 现在默认显示派对版：放大的绿色拖拉机与立体金色数字「2」、气球簇、向日葵、礼物、戴生日帽的小牛和小鸡。姓名使用描边与阴影，祝福带独立底色，保持远距离阅读的对比度。两侧气球缓慢摇摆；主体和标题保持稳定。
+页面和素材均使用相对路径，适配仓库子路径。打包使用明确的文件清单，只发布实际使用的站点文件，不包含 `.git`、开发脚本、未引用的试验素材或个人文件。
 
-蛋糕场景同步换成明亮的双层奶油蛋糕、数字「2」蜡烛、草莓与向日葵装饰，庆祝彩纸包含纸条、圆片和星形。原有手动控制、合影暂停和减少动态效果逻辑保持一致。
+工作流依据 [GitHub 官方 Pages 工作流文档](https://docs.github.com/en/pages/getting-started-with-github-pages/using-custom-workflows-with-github-pages) 配置。普通公开 Pages 站点会展示页面中的姓名；相册的本地选图不会随之公开。不要把私人照片、家庭视频加入发布清单。
 
-- 原版入口：`classic/index.html`，原有两张备用图保存在 `classic/assets/`。
-- 两版均可通过「更多设置与备用图」中的链接互相切换。切换版本会打开另一页，场景、蜡烛、全屏和常亮状态不会跨页面继承，需要时重新开启。
-- 主目录 `assets/` 下的 SVG 和 4K PNG 已更新为派对版。
-- `python3 scripts/build_party_art.py` 可重新生成派对插画（复用 `classic/index.html` 中的拖拉机源绘图）；之后运行 `python3 scripts/export_background.py` 更新静态图。
-- 最新离线包同时包含两版网页、对应备用图、说明及维护脚本。
+当前线上地址为 `https://zemu2718.github.io/little-tractor-party/`。上线由用户确认；本地文档更新并不代表已同步推送到线上。后续发布以实际仓库的 Actions 部署结果为准。
 
-升级后已查看实际导出的插画，并通过现有交互回归、两版资源引用和本地链接检查。真实浏览器渲染、动画和电视投屏仍需设备验证。
+## 文件与维护
+
+```text
+index.html                     版本选择首页
+party/index.html               欢乐派对：农场与蛋糕
+classic/index.html             清新简洁：农场与蛋糕
+classic/assets/                简洁版 SVG 和 4K 备用图
+play/index.html                小龙游乐园四个场景
+play/play.css                  游乐园布局与动画
+play/play.js                   相册、互动、音频控制和展示状态
+play/audio.js                  本地合成生日歌和短音效
+assets/                        小龙、角色、派对备用图、游乐园预览
+scripts/                       插画生成、导出、验证与打包
+.github/workflows/pages.yml     GitHub Pages 检查与发布
+.nojekyll                      静态站点标记
+README.md                      本说明
+```
+
+### 修改画面后更新素材
+
+```bash
+python3 scripts/build_party_art.py
+python3 scripts/build_play_art.py
+python3 scripts/export_background.py
+```
+
+- 派对插画由 `build_party_art.py` 生成，复用简洁版拖拉机和 `assets/little-dragon.svg`。修改派对插画时优先改生成脚本，避免下次生成覆盖手动改图。
+- 游乐园主画面和角色素材由 `build_play_art.py` 生成；其内嵌首页画面会同步更新。红色拖拉机源图已存入项目，后续生成不依赖原参考文件路径。
+- `export_background.py` 更新派对版、简洁版两套 SVG／4K PNG，以及游乐园的 4K 预览图。
+- PNG 导出需要系统提供 librsvg、Cairo 及中文字体；普通使用、检查和发布直接使用已有图片，不需要安装这些开发工具。
+- 静态备用图采用初始姿态，不是当前动画帧；蛋糕图为蜡烛点亮状态。
+
+### 检查与打包
+
+```bash
+node scripts/check_page.cjs party
+node scripts/check_page.cjs classic
+node scripts/check_audio.cjs
+node scripts/check_play.cjs
+python3 scripts/check_site.py
+python3 scripts/package_site.py
+```
+
+检查覆盖场景与蜡烛状态、合影恢复、减少动态效果、音频停止、相册排序／循环／失败处理、图片资源释放、后台暂停、麦克风延迟授权取消、全屏回退、常亮生命周期及站点链接。
+
+打包生成：
+
+- `dist/`：GitHub Pages 发布目录，包含站点和离线包下载。
+- `little-tractor-party-offline.zip`：首页、三个版本、全部运行素材、静态备用图及 README；无需联网加载外部资源。维护脚本保留在源码项目中。
+
+以上两个输出不加入 Git，工作流会从最新源码重新生成。新增页面或资源时，同步更新 `scripts/package_site.py` 中的发布清单，并在修改后重新打包。
+
+## 现场验收清单
+
+- [ ] 手机横屏进入三个版本，首页与返回入口正常。
+- [ ] 电视中姓名、数字「2」、小龙和拖拉机没有被裁切。
+- [ ] 隐藏操作栏后可以恢复，合影模式可以进入和退出。
+- [ ] 蛋糕可吹灭、重新点亮；减少动态效果下功能仍可用。
+- [ ] 相册选择一组实际照片，翻页、暂停、循环和字幕符合预期。
+- [ ] 生日歌和背景音乐的音量合适，切后台后不会继续打扰现场。
+- [ ] 全屏、常亮与麦克风在计划使用的设备上测试；不支持时按回退方式操作。
+- [ ] 两张备用图已经保存到手机相册，断网时可以立即展示。
+
+## 后续协作约定
+
+使用中文沟通。保持静态站点和本地照片方案，不引入无关后端；保持标题可读、主体明确、动画柔和、成人可控。生肖为龙，新增角色设计延续友善的小龙形象。实际大厅配色、手机与电视型号尚未确认，应通过现场反馈调整，不把未经验证的兼容性写成保证。
